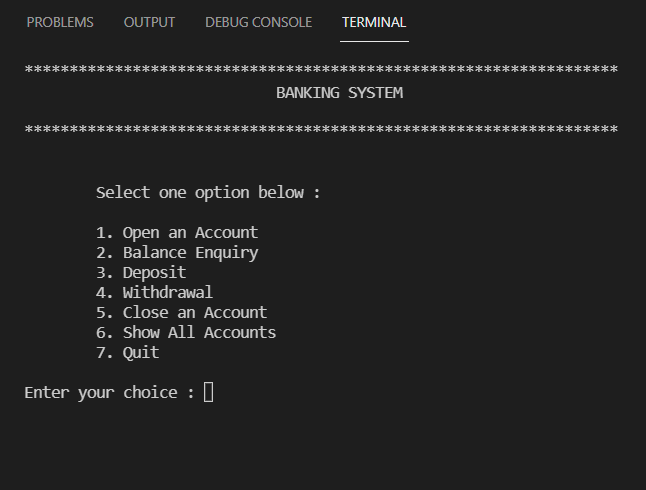
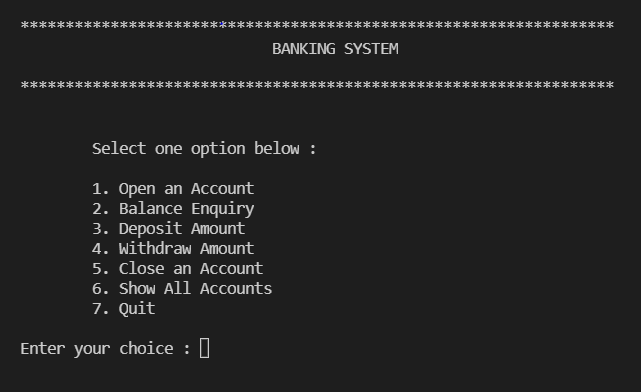
modify output screenshot

diff --git a/src/main.cpp b/src/main.cpp
@@ -21,8 +21,8 @@ int main()
         cout << "\n\tSelect one option below : "<<endl;
         cout << "\n\t1. Open an Account";
         cout << "\n\t2. Balance Enquiry";
-        cout << "\n\t3. Deposit";
-        cout << "\n\t4. Withdrawal";
+        cout << "\n\t3. Deposit Amount";
+        cout << "\n\t4. Withdraw Amount";
         cout << "\n\t5. Close an Account";
         cout << "\n\t6. Show All Accounts";
         cout << "\n\t7. Quit";
